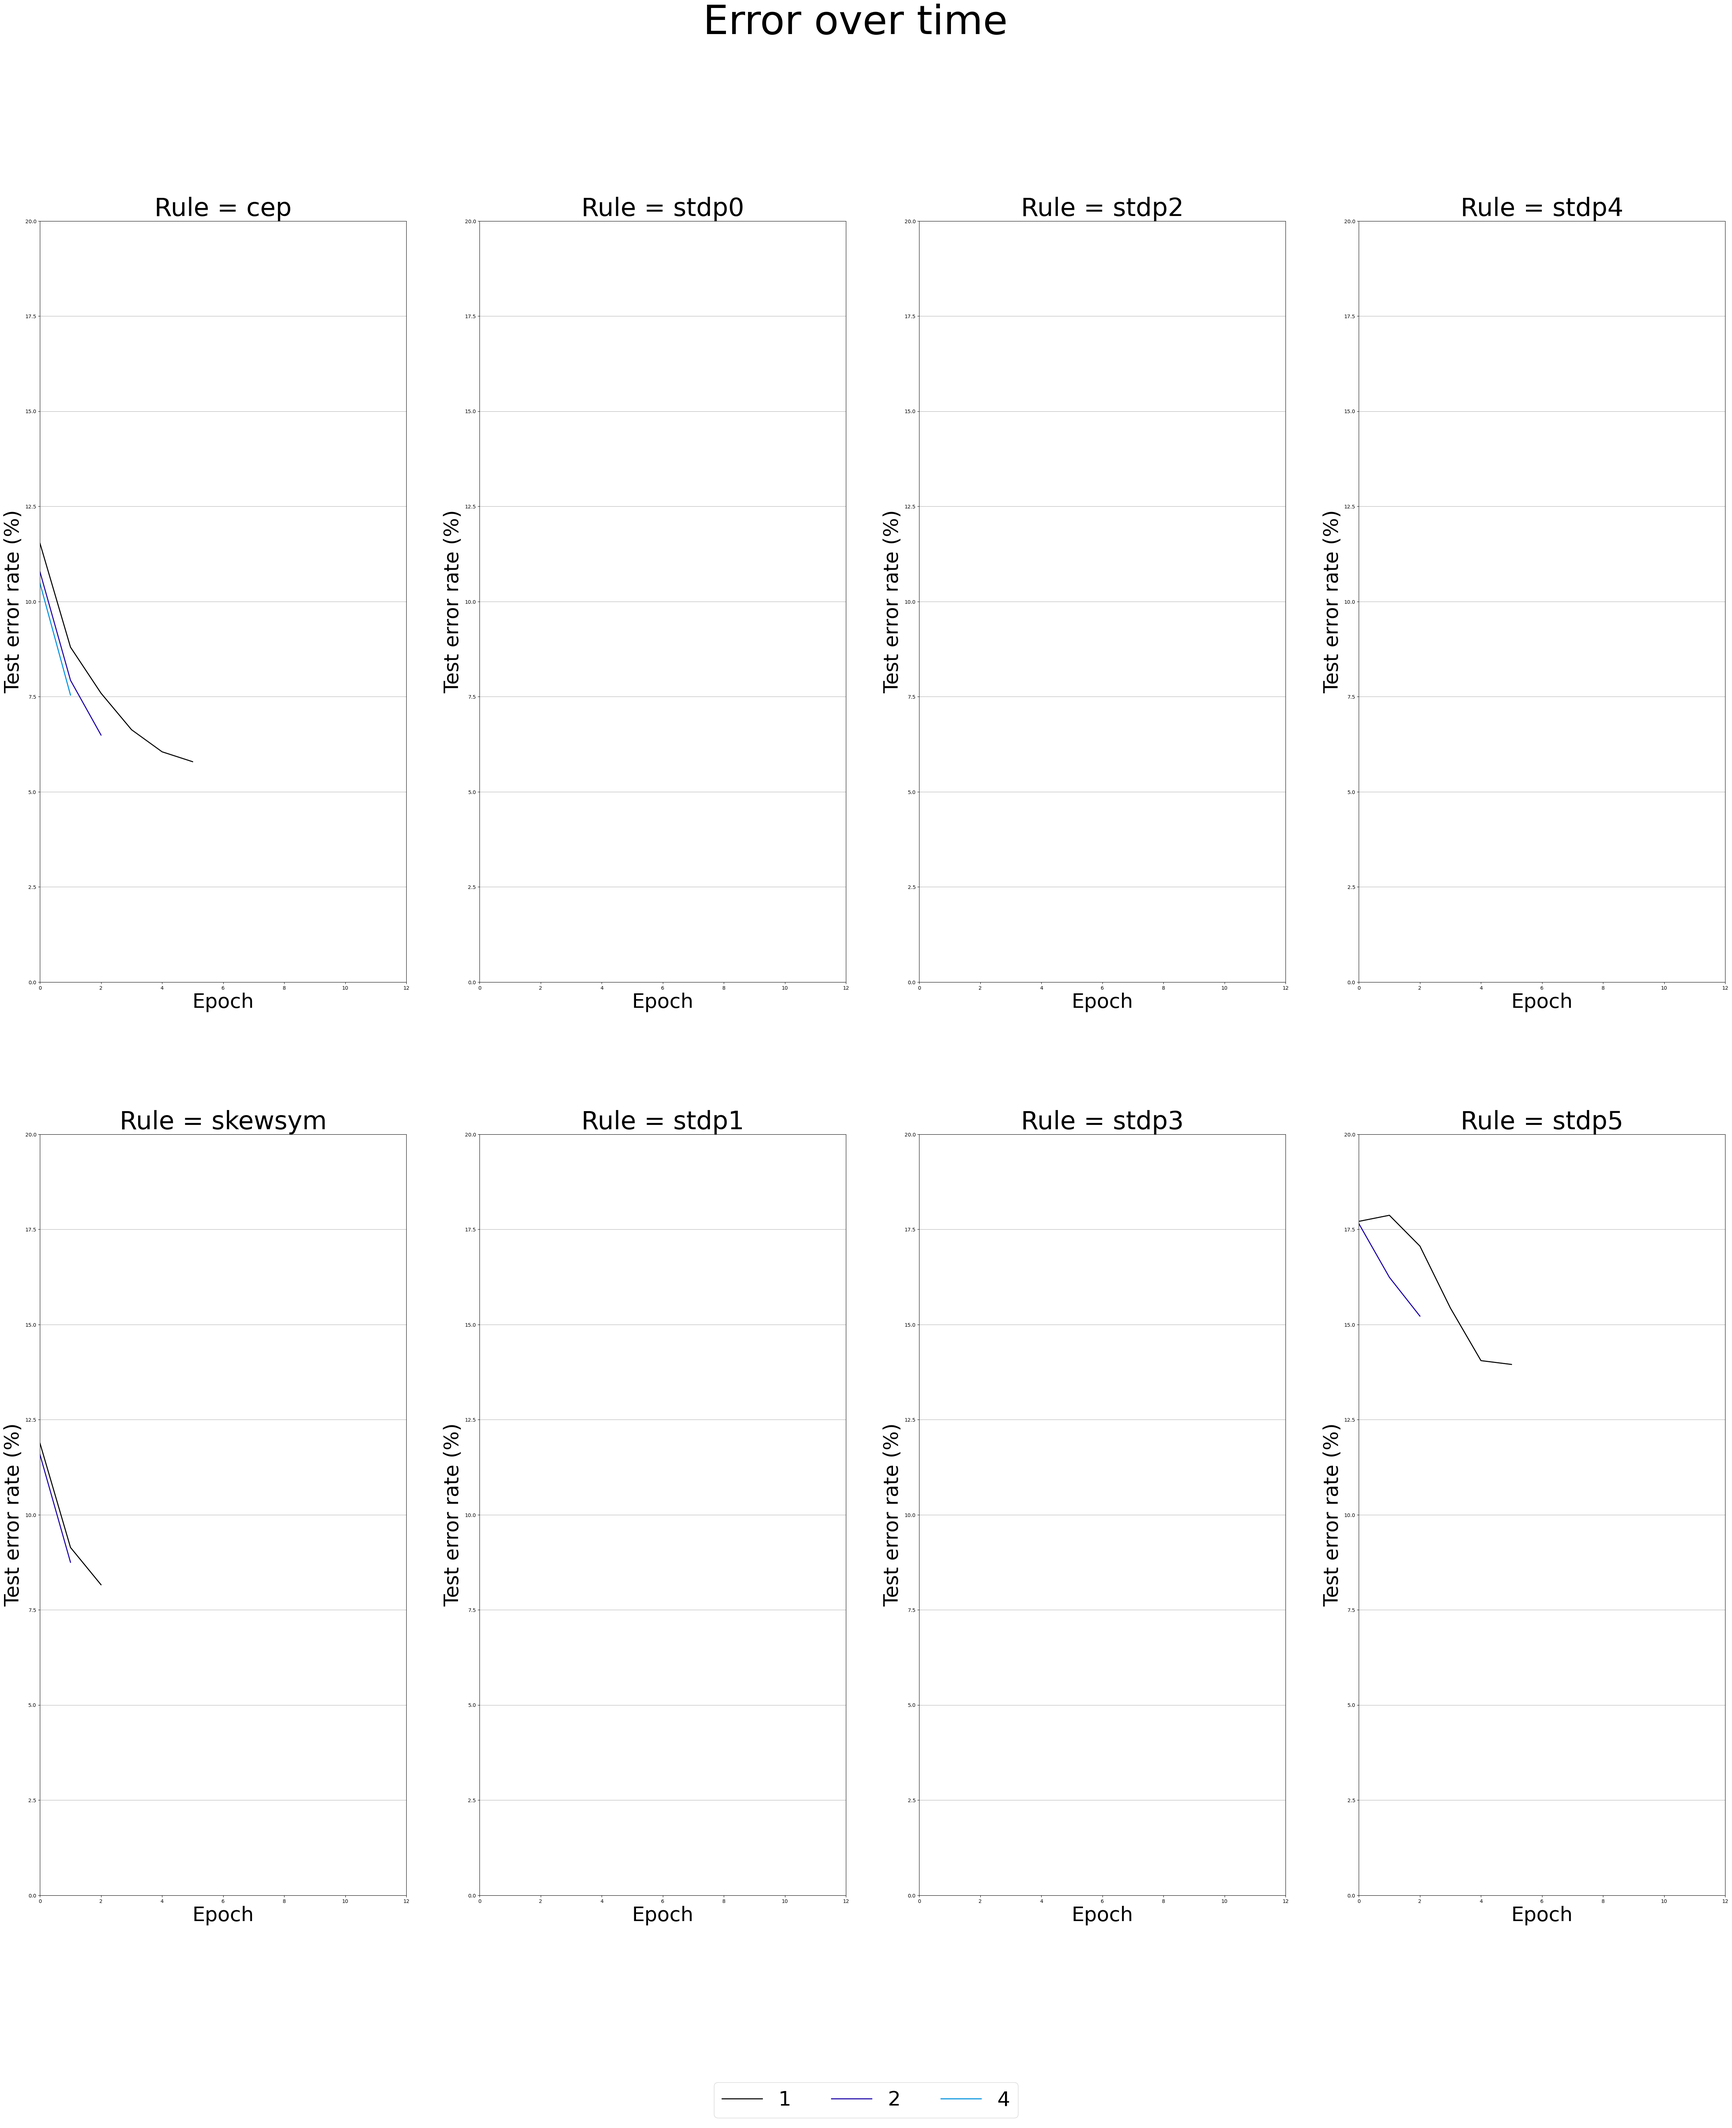
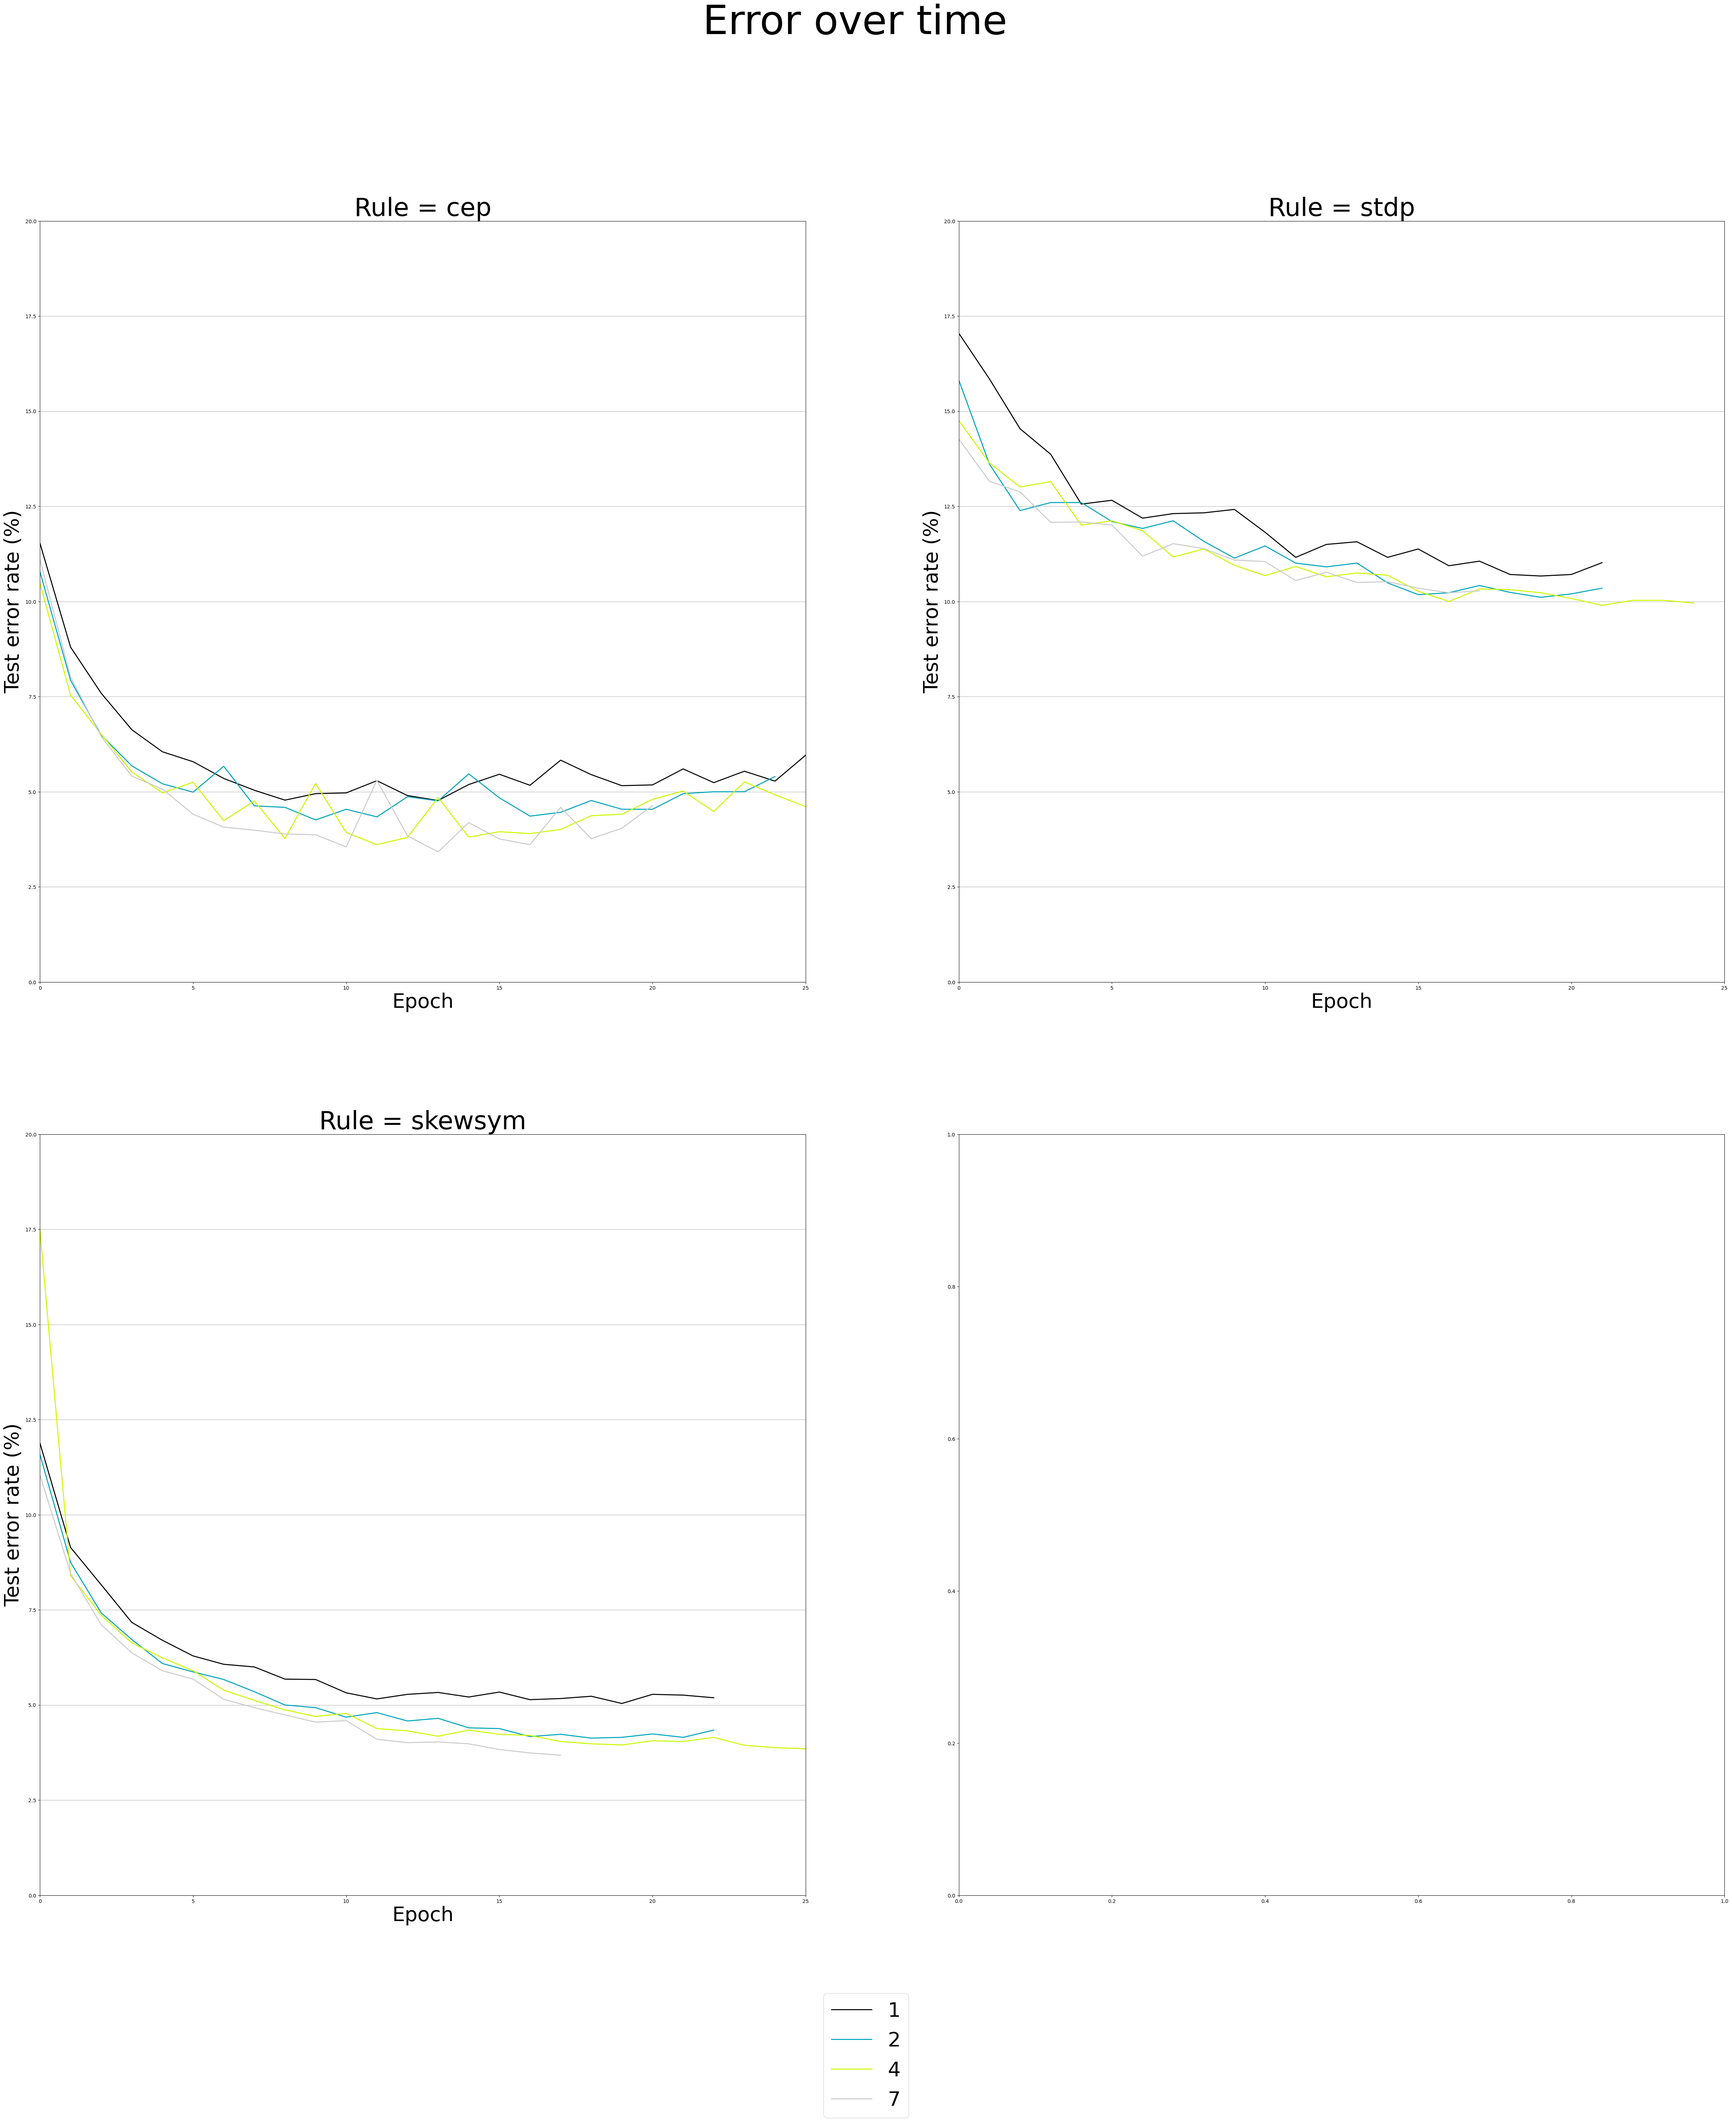
wip

Changed region(s): [[0.9042, 0.0935, 0.9353, 0.1247], [0.7483, 0.2493, 0.7795, 0.2805], [0.53, 0.2805, 0.5612, 0.3116]]

diff --git a/graph.py b/graph.py
@@ -115,22 +115,23 @@ fig.savefig(args.directory+"/test2.png",bbox_inches="tight")
 '''
 
 
-fig, ax = plt.subplots(2,4,figsize=(60,60))
+fig, ax = plt.subplots(2,2,figsize=(60,60))
 # omegas=[1,4,16,64,256,1024]
 # omegas=[0.8,1,2,3,15,63,255,1023]
 # omegas=[14,15,16,17,18,63,64,65]
 # omegas=[1,4]
 # taus=[0.025,0.05,0.1,0.2]
-rules=['cep','skewsym','stdp0','stdp1','stdp2','stdp3','stdp4','stdp5']
-Ms=[1,2,4]
+# rules=['cep','skewsym','stdp0','stdp1','stdp2','stdp3','stdp4','stdp5']
+rules=['cep','skewsym','stdp']
+Ms=[1,2,4,7]
 for idx,rule in enumerate(rules):
     ax[idx%2,idx//2].grid(axis='y')
-    ax[idx%2,idx//2].set_xlim([0,12])
+    ax[idx%2,idx//2].set_xlim([0,25])
     ax[idx%2,idx//2].set_ylim([0,20])
     ax[idx%2,idx//2].set_xlabel('Epoch',fontsize=40)
     ax[idx%2,idx//2].set_ylabel('Test error rate (%)',fontsize=40)
     ax[idx%2,idx//2].set_title('Rule = '+str(rule),fontsize=50)
-    colors = iter(colormap(np.linspace(0,1,len(rules))))
+    colors = iter(colormap(np.linspace(0,1,len(Ms))))
     for M in Ms:
         subdir="compare_"+rule+"_M_"+str(M)
         train_error,test_error=[0],[0]
